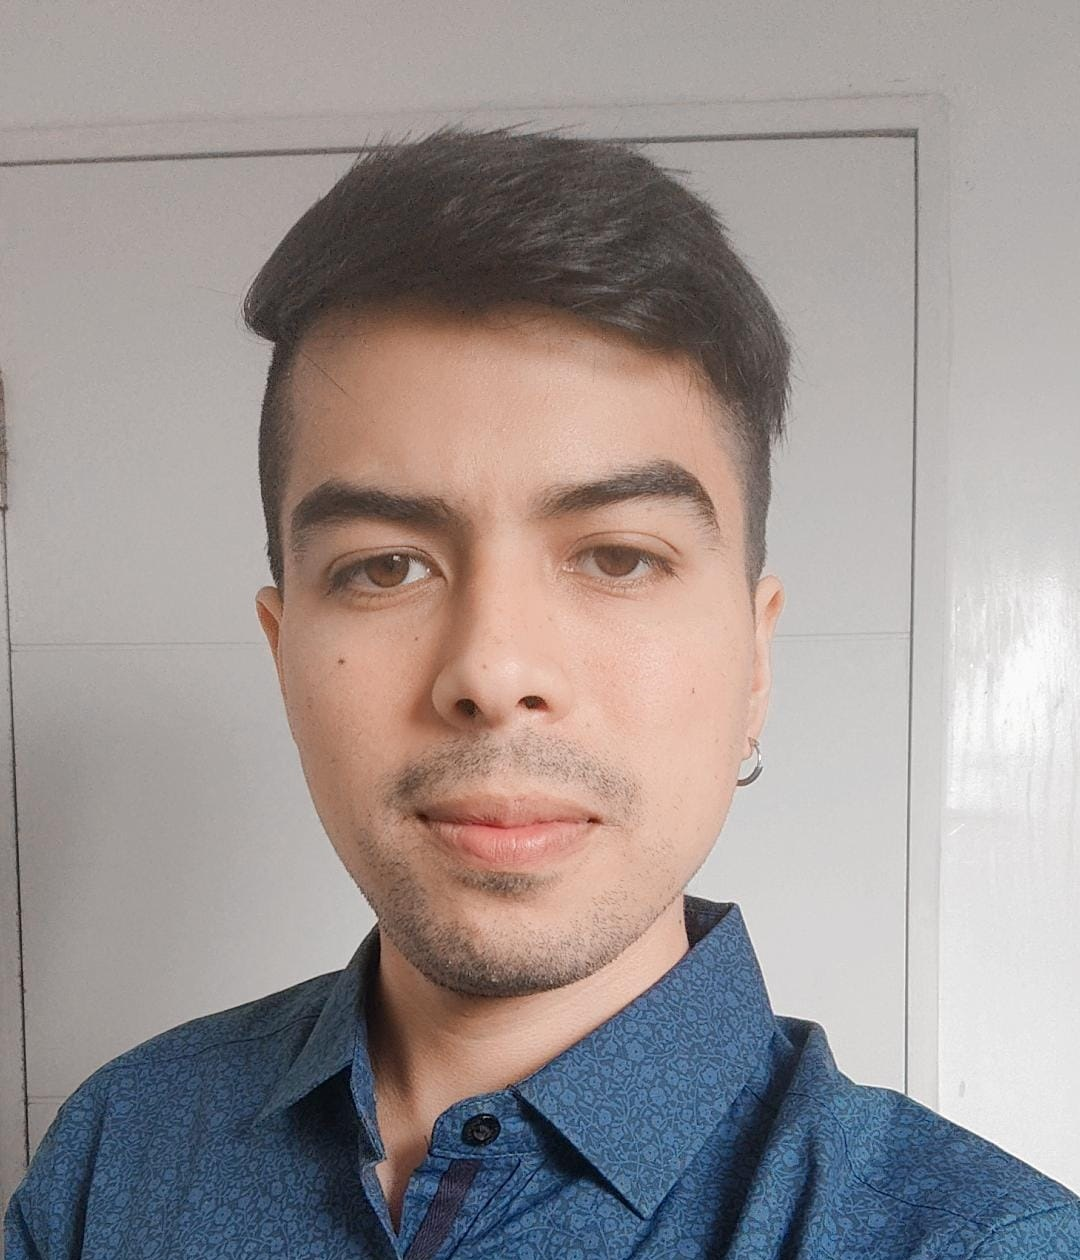
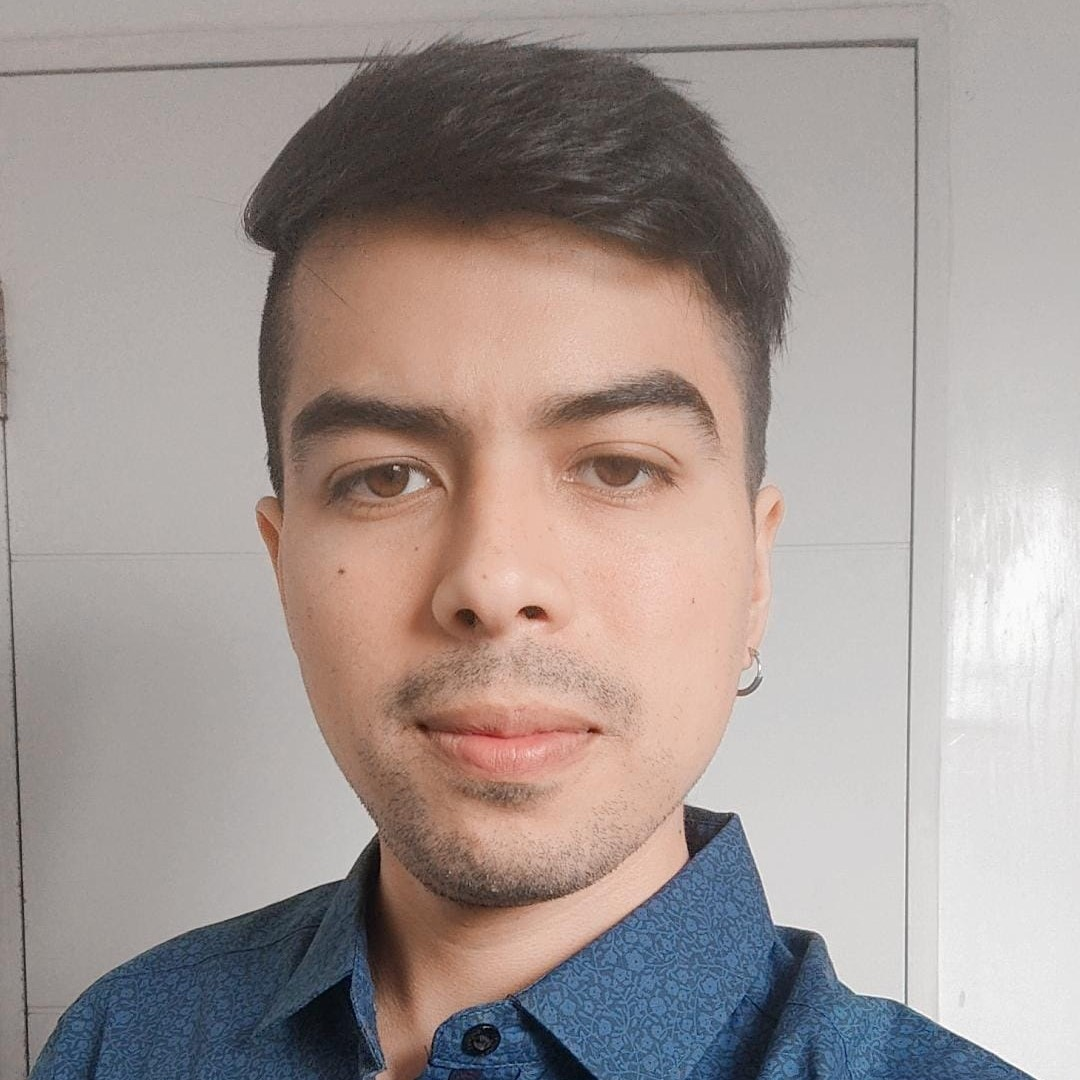
resizing image about

diff --git a/src/components/About.jsx b/src/components/About.jsx
@@ -67,7 +67,7 @@ const About = () => {
             hasta la implementación.
           </motion.p>
         </div>
-        <div className="mx-auto row-span-3 max-w-[300px] xl:mt-20 lg:mt-20 lg:mr-8 lg:ml-5 min-w-[300px] rounded-full items-center  ">
+        <div className="mx-auto row-span-3 max-w-[250px] xl:mt-20 lg:mt-20 lg:mr-8 lg:ml-5 min-w-[200px] rounded-full items-center  ">
           <img src={imagenes[0]} alt="Descripción de la imagen" className="animate-fade animate-once animate-duration-[2000ms] rounded-full border-4 border-violet-500" />
         </div>
       </div>
